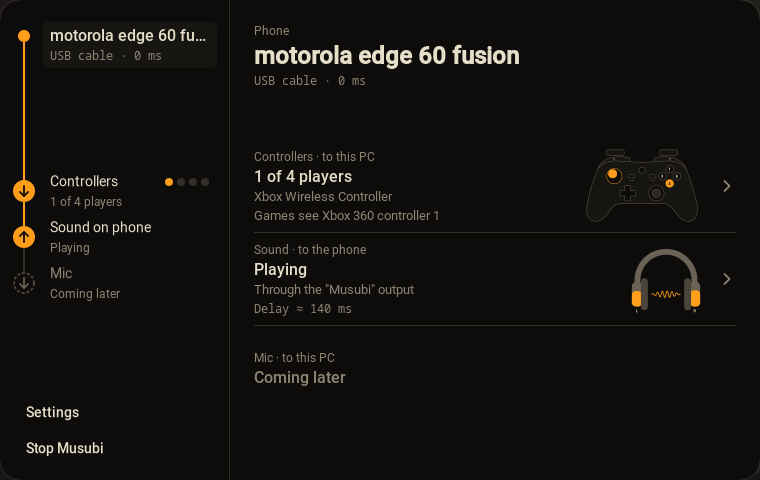
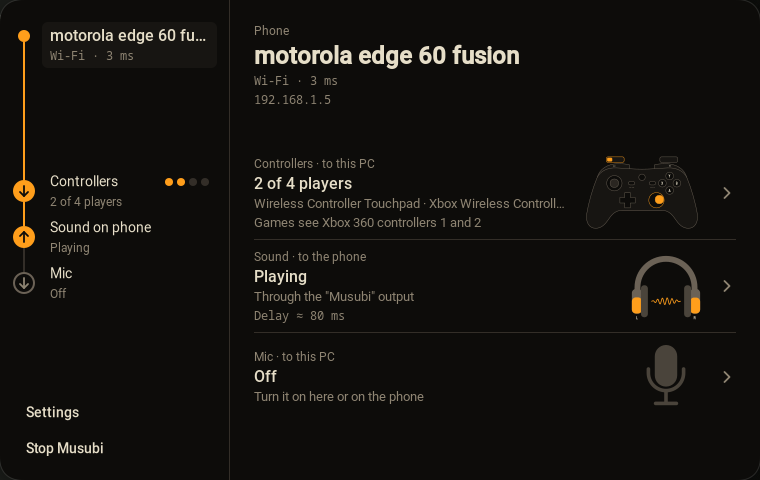
Update README

diff --git a/README.md b/README.md
@@ -8,12 +8,12 @@
   <strong>Use your phone as the Bluetooth hub your PC doesn't have.</strong>
 </p>
 
-Pair a Bluetooth gamepad with an Android phone, and your Linux PC gets a virtual Xbox 360 pad that games treat as a normal controller. Since 0.6.0 it also works the other way: your PC's sound can play on the earbuds paired with the phone. I built it because my PC has no Bluetooth and I had an old phone lying around.
+Pair up to four Bluetooth gamepads with an Android phone, and your Linux PC gets a virtual Xbox 360 pad for each one that games treat as a normal controller. Since 0.6.0 it also works the other way: your PC's sound can play on the earbuds paired with the phone. I built it because my PC has no Bluetooth and I had an old phone lying around.
 
 <p align="center">
-  <img src="docs/assets/home.png" alt="Musubi Home screen on Android showing the connected PC, 1 of 4 players, and active headphones with a 170 ms delay." width="250">
+  <img src="docs/assets/home.png" alt="Musubi Home screen on Android showing the connected PC over Wi-Fi, 2 of 4 players, sound on the phone speaker with a 170 ms delay, and the mic off." width="250">
   &nbsp;
-  <img src="docs/assets/controller.png" alt="Musubi Controllers page on Android: player 1 connected, the left stick tilted in amber, and rumble waves beside both grips." width="250">
+  <img src="docs/assets/controller.png" alt="Musubi Controllers page on Android: players 1 and 2 connected, player 2's Xbox pad with the left stick, L1 and A lit in amber, and Remap and Settings buttons below." width="250">
   &nbsp;
   <img src="docs/assets/headphones.png" alt="Musubi Headphones screen on Android with amber level meters and wave showing sound arriving over Wi-Fi." width="250">
 </p>
@@ -28,7 +28,7 @@ That's what this app does. Your Bluetooth devices and your PC can't reach each o
 
 ## What you need
 
-- A Linux PC with Python 3, `python-evdev` and access to `/dev/uinput`. Windows and macOS won't work, because the virtual pad depends on `uinput`. The desktop app also needs GTK 4 and PyGObject. Sound on the phone needs `pactl` and `parec`, which come with PipeWire's PulseAudio support on most desktops.
+- A Linux PC with Python 3, `python-evdev` and access to `/dev/uinput`. macOS won't work, because the virtual pad depends on `uinput`. A [Windows version](#windows-version) is in progress. The desktop app also needs GTK 4 and PyGObject. Sound on the phone needs `pactl` and `parec`, which come with PipeWire's PulseAudio support on most desktops.
 - An Android phone with the app open while you play. The app declares Android 5.0 or newer, but it has only run on those four phones.
 - A Bluetooth gamepad that Android recognizes as a gamepad.
 - The phone and the PC on the same network, or a USB cable between them.
@@ -99,13 +99,13 @@ python3 desktop/linux/musubi.py 192.168.1.10
 ## Desktop app
 
 <p align="center">
-  <img src="docs/assets/desktop.png" alt="Musubi on a Linux PC: the Overview page with a Motorola phone on the USB cable, 1 of 4 players connected, and sound playing on the phone with amber levels in the headphone cups." width="700">
+  <img src="docs/assets/desktop.png" alt="Musubi on a Linux PC: the Overview page with a Motorola phone on Wi-Fi, 2 of 4 players connected, sound playing on the phone with an 80 ms delay, and the mic off." width="700">
 </p>
 
-- **Sidebar:** shows the connected phone, its link (Wi-Fi or USB cable) and ping, with pages for **Overview**, **Controllers** and **Sound on phone**.
-- **Overview:** the phone, the controller and the sound at a glance. **Controllers** shows the live pad, and **Sound on phone** shows the PC's sound levels and can turn sound off from the PC.
+- **Sidebar:** shows the connected phone, its link (Wi-Fi or USB cable) and ping, with pages for **Overview**, **Controllers**, **Sound on phone** and **Mic**.
+- **Overview:** the phone, the controllers, the sound and the mic at a glance. **Controllers** has tabs for players 1 to 4 with a live pad drawing for each, and **Sound on phone** shows the PC's sound levels and can turn sound off from the PC.
 - **Allowed phones:** a new phone asks for your approval once. Manage them in **Settings > Manage phones**. Phones are recognized by IP, so reserve the address in your router if you can, or the phone will ask again when it changes. If you ignore or remove a phone, the waiting screen offers **Allow** for as long as that phone keeps trying to connect.
-- **Virtual controller:** it only exists while a controller is connected to the phone, so games don't see a pad you can't use.
+- **Virtual controllers:** each player's virtual pad only exists while that controller is connected to the phone, so games don't see a pad you can't use.
 - **Start with my PC:** this adds a systemd user service in **Settings**. It needs a desktop session that starts `graphical-session.target`. If yours doesn't, the app shows the command to add to your desktop's startup instead.
 - **Tray:** if your desktop has a tray, closing the window keeps Musubi running there. Without one, closing the window quits.
 
@@ -115,11 +115,13 @@ python3 desktop/linux/musubi.py 192.168.1.10
   <img src="docs/assets/remap.png" alt="The remap setup on step 1 of 16: the A button is highlighted on the drawing, with Back, Skip and Cancel buttons beside it." width="700">
 </p>
 
-On the **Controllers** page, tap **Remap** and press each button as the app asks, or tap **Skip** for the ones your pad doesn't have. You can try the layout before saving it. Each controller keeps its own layout, and **Reset** goes back to the default. Sticks can't be remapped.
+On the **Controllers** page, pick a player tab, tap **Remap** and press each button as the app asks, or tap **Skip** for the ones your pad doesn't have. You can try the layout before saving it. Each controller keeps its own layout, and **Reset** goes back to the default. Sticks can't be remapped.
 
 ## Vibration
 
-When a game rumbles the controller, the phone makes your real pad vibrate, with the strong and weak motors kept apart. Waves on the controller drawing show it, on the phone and on the PC. It depends on the pad: Android has to be able to vibrate it over Bluetooth. If yours can't, the Controllers page says so.
+When a game rumbles a controller, the phone makes that real pad vibrate, with the strong and weak motors kept apart. Waves on the controller drawing show it, on the phone and on the PC. It depends on the pad: Android has to be able to vibrate it over Bluetooth. If yours can't, the Controllers page says so.
+
+Each controller keeps its own vibration toggle, strength and stick deadzone. Tap **Settings** on its player tab in **Controllers** to change them, test the motors on that pad, or watch both sticks live while setting a deadzone.
 
 ## Headphones
 
@@ -146,9 +148,9 @@ Musubi can send your voice to the PC through the phone's own mic. It shows up on
 ## Limits
 
 - **The controller needs the app on screen.** Android only gives controller input to the app in front, so if you leave the app, the PC releases every button after half a second. **Game mode** keeps the screen on but dim. Sound is different: it keeps playing in the background.
-- **One pad at a time.** Two pads paired with the phone would be merged into one. *(for now)* Bluetooth earbuds that pretend to be a controller for their media buttons are ignored so they don't take the controller spot.
+- **Up to four pads per phone.** Each paired controller gets a stable player slot from 1 to 4. Bluetooth earbuds that pretend to be a controller for their media buttons are ignored so they don't take a controller slot.
 - **The guide button can't be remapped,** and it may not arrive at all, because Android can keep it for itself.
-- **One phone at a time.** If two allowed phones are on, the first one keeps the pad until it has been silent for 5 seconds.
+- **One phone at a time.** If two allowed phones are on, the first one keeps the pads until it has been silent for 5 seconds.
 - **Use it only on a network you trust.** Packets are not encrypted or authenticated, and approval only checks the IP. Someone on your network who fakes an allowed phone's address could press buttons in your game.
 - **Your voice crosses the network unencrypted,** like the pad.
 
@@ -194,15 +196,19 @@ sudo udevadm control --reload && sudo udevadm trigger --name-match=uinput
 
 Any program you run can then create virtual input devices, so remove the rule if you stop using Musubi.
 
+## Windows version
+
+Work in progress on the [`windows`](https://github.com/Multex/musubi/tree/windows) branch. I can't really work actively on it because I don't have a Windows installation, so it's been difficult to test things. I won't just tell Claude to make a Windows port either, because without testing it myself I'd be breaking my own [AI disclosure](#ai-disclosure). So it will take time until I can test it actively.
+
 ## How it works
 
-Each controller packet is 20 bytes and holds the whole pad state: 11 button bits, then 8 axes (`!I8h` in `desktop/core.py`). The app sends one on every change and at least every 50 ms, so a lost packet is repaired by the next one and a release can't get stuck. After 0.5 seconds of silence, the receiver releases everything.
+Each controller state is 20 bytes: 11 button bits, then 8 axes (`!I8h` in `desktop/core.py`). Player 1 sends those 20 bytes directly for compatibility with older receivers, and players 2 to 4 prefix them with `PBIN` and the slot index (`!4sBI8h`). The app sends a packet on every change and at least every 50 ms, so a lost packet is repaired by the next one and a release can't get stuck. After 0.5 seconds of silence, the receiver releases that slot.
 
-Once a second the app also sends an 8-byte ping, and the receiver echoes it back to allowed phones. That is how the app knows the PC is answering and what the round trip takes. It also sends a hello packet with the phone's model, the controller's name, that ping time, and a feature flag for sound.
+Once a second the app also sends an 8-byte ping, and the receiver echoes it back to allowed phones. That is how the app knows the PC is answering and what the round trip takes. It also sends a `PBHI` hello packet with the phone's model, connected controller slots and names, that ping time, sound delay, mic state, and feature flags.
 
 When the phone announces that **Play PC sound** is on, the PC loads a virtual `Musubi` output (`module-null-sink` via `pactl` in `desktop/linux/audio.py`) and captures 48 kHz 16-bit stereo PCM in 5 ms chunks with `parec`. Each chunk goes back over the same UDP socket (or USB cable) with a 2-byte sequence number (`!4sH`). After 200 ms of silence the PC stops sending chunks until sound plays again. On the phone, an adaptive jitter buffer (`android/AudioBuffer.java`) feeds a low-latency `AudioTrack`, and a foreground service (`android/KeepAliveService.java`) keeps the sound going in the background.
 
-When a game sends force feedback to the virtual pad, the PC sends the strong and weak motor levels and the duration back to the phone (`!4sHHH`), and the phone drives the pad's motors (both motors on Android 12 and newer, one on older versions).
+When a game sends force feedback to a virtual pad, the PC sends a `PBRM` message with the strong and weak motor levels and the duration (`!4sHHH`, plus the slot byte for players 2 to 4), and the phone drives that pad's motors (both motors on Android 12 and newer, one on older versions).
 
 Over a USB cable the phone uses Android Open Accessory instead of Wi-Fi. The PC asks the phone to switch modes (`desktop/linux/cable.py`), and then the same packets travel over USB, each one starting with its length in 2 bytes.
 
@@ -220,7 +226,7 @@ The virtual pad uses the same IDs and layout as the kernel's `xpad` driver, so g
 
 The result is `android/build/musubi.apk`. The first build creates `android/debug.keystore`, which stays out of git. Keep that file: Android refuses updates signed with a different key.
 
-`build.sh` also runs the button map and audio buffer tests. Run the PC tests with:
+`build.sh` also runs the Android unit tests (button map, audio buffer, deadzone and player slots). Run the PC tests with:
 
 ```sh
 python3 -m unittest discover -s desktop/tests
